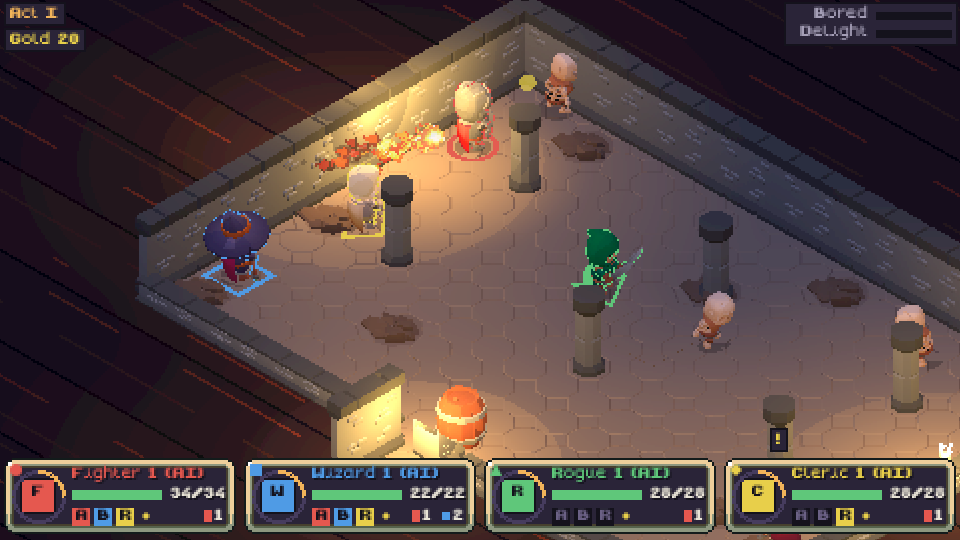
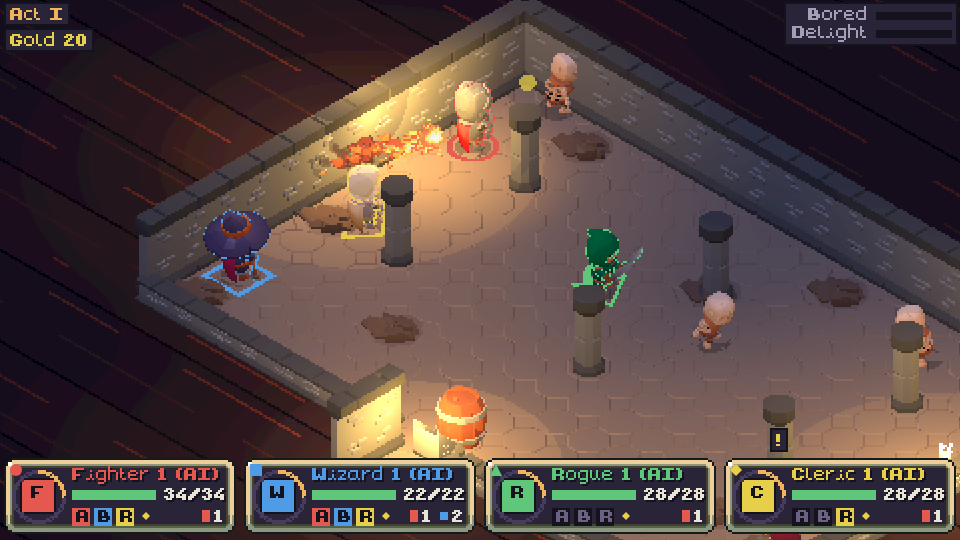
Sharp UI text: draw the UI at screen resolution on the font's pixel grid
The UI canvas was 480x270 and went through the low-res post chain: the 8 px
font antialiased, the hard alpha threshold broke glyphs apart, and the
integer upscale magnified the result, so text looked blurry and broken.

- Draw.setResolution(k): the UI canvas matches the integer upscale (480k x
  270k) with a canvas transform, so all UI code keeps 480x270 units.
- The upscale pass composites that texture one texel per screen pixel; the
  low-res pass only writes the "no UI" mask for the sub-texel camera shift.
- The pixel font is on a 9 px em: nominal 8/16 now render at 9/18 px so each
  font pixel covers whole screen pixels (no dropped rows/columns).
- Layout follow-ups for the ~12% wider glyphs (tavern, narration wrap,
  summary, loot, level-up cards, initiative order).
- Loading screen title drawn at screen resolution too.
- ui-gallery: W/H env vars for the viewport.

Claude-Session: https://claude.ai/code/session_01729CUv6pasVB8nyBY5QPHk

diff --git a/src/game/game.ts b/src/game/game.ts
@@ -131,8 +131,13 @@ export class Game {
     const c = this.loadCanvas;
     const g = c.getContext("2d");
     if (!g) return;
-    c.width = 480;
-    c.height = 270;
+    // Same integer scale as the game frame, so the title text is rasterized sharp, not stretched.
+    const k = Math.max(1, Math.floor(Math.min((innerWidth * devicePixelRatio) / 480, (innerHeight * devicePixelRatio) / 270)));
+    if (c.width !== 480 * k) {
+      c.width = 480 * k;
+      c.height = 270 * k;
+    }
+    g.setTransform(k, 0, 0, k, 0, 0);
     g.fillStyle = PAL.ink;
     g.fillRect(0, 0, 480, 270);
     g.fillStyle = PAL.dusk;
@@ -797,6 +802,9 @@ export class Game {
       }
     }
     this.hud.update(this.paused ? 0 : dt);
+    // Draw the UI at the same integer scale the frame is upscaled by, so text is rasterized at
+    // screen resolution instead of being blown up from 480x270.
+    if (this.ui.setResolution(Math.floor(Math.min(W / UI_W, H / UI_H)))) this.renderer.post.uiTexture.dispose();
     this.drawUi();
     this.renderer.render(W, H, dt, true);
     requestAnimationFrame((t) => this.frame(t));
@@ -935,7 +943,7 @@ export class Game {
   private drawTavern(): void {
     const d = this.ui;
     const large = this.settings.accessibility.largeText;
-    const mw = large ? 226 : 190, my = large ? 22 : 60;
+    const mw = large ? 226 : 204, my = large ? 22 : 60;
     const sx0 = mw + 18, sw = Math.floor((UI_W - 8 - sx0 - 9) / 4), sy = 172;
     // Controls strip along the bottom, on its own plate (drawn first: the large-text menu may cover it).
     d.rect(0, 237, UI_W, UI_H - 237, PAL.ink);
@@ -956,7 +964,7 @@ export class Game {
     d.label(`Renown ${this.meta.renown}   Runs ${this.meta.stats.runs}   Wins ${this.meta.stats.wins}`, UI_W - 4, 4, PAL.gold, 8, "right");
     drawMenu(d, 8, my, mw, "The Tavern", this.tavernItems(), this.tavernSel, large ? 12 : 8);
     // Party slots.
-    if (!this.input.hasPads()) d.label("Controllers appear after their first button press.", UI_W - 8, sy - 12, PAL.fog, 8, "right", UI_W - sx0);
+    if (!this.input.hasPads()) d.label("Gamepads show up after one button press.", UI_W - 8, sy - 12, PAL.fog, 8, "right", UI_W - sx0);
     for (let i = 0; i < 4; i++) {
       const p = this.players.find((x) => x.slot === i);
       const x = sx0 + i * (sw + 3);
@@ -967,8 +975,8 @@ export class Game {
       const inner = sw - 12;
       if (p) {
         d.text(d.fit(CLASSES[p.cls]!.name, inner), x + 6, sy + 19, PAL.bone, 8);
-        d.text(d.fit(p.device.startsWith("pad") ? "Controller" : p.device === "kbA" ? "WASD keys" : "Arrow keys", inner), x + 6, sy + 30, PAL.fog, 8);
-        if (i > 0) d.text(d.fit("◀ ▶ class", inner), x + 6, sy + 42, PAL.mist, 8);
+        d.text(d.fit(p.device.startsWith("pad") ? "Gamepad" : p.device === "kbA" ? "WASD" : "Arrows", inner), x + 6, sy + 30, PAL.fog, 8);
+        if (i > 0) d.text(d.width("◀ ▶ class") <= inner ? "◀ ▶ class" : "◀ ▶ swap", x + 6, sy + 42, PAL.mist, 8);
       } else {
         d.text("Open seat", x + 6, sy + 19, PAL.mist, 8);
         d.text(d.fit("Press to", inner), x + 6, sy + 31, PAL.fog, 8);
@@ -1090,8 +1098,8 @@ export class Game {
         const name = cards ? CARDS.cards.find((c) => c.id === id)!.name : SUBCLASSES[id]!.name;
         const desc = cards ? CARDS.cards.find((c) => c.id === id)!.desc : SUBCLASSES[id]!.desc;
         d.panel(x, y, 125, ch, i === sel ? "t1_nine_path_focus" : "nine_path_4");
-        d.text(d.fit(name, 113), x + 6, y + 6, i === sel ? PAL.gold : PAL.bone, 8);
-        d.para(desc, x + 6, y + 18, 113, i === sel ? PAL.bone : PAL.fog, 8, Math.max(1, Math.floor((ch - 24) / 10)), 10);
+        d.text(d.fit(name, 113), x + 6, y + 4, i === sel ? PAL.gold : PAL.bone, 8);
+        d.para(desc, x + 6, y + 15, 113, i === sel ? PAL.bone : PAL.fog, 8, Math.max(1, Math.floor((ch - 21) / 10)), 10);
       });
     });
   }
@@ -1155,7 +1163,7 @@ export class Game {
     const vy = 84 + desc.length * 10 + 8;
     d.panel(90, 46, 300, vy + 36 - 46);
     d.text(d.fit(it.name, 284), 240, 54, PAL.gold, 8, "center");
-    d.text(`${it.rarity.replace("_", " ")}${it.attune ? " — requires attunement" : ""}`, 240, 66, PAL.fog, 8, "center");
+    d.text(`${it.rarity.replace("_", " ")}${it.attune ? " — requires attunement" : ""} · ties: d20 roll-off`, 240, 66, PAL.fog, 8, "center");
     desc.forEach((ln, i) => d.text(ln, 240, 80 + i * 10, PAL.bone, 8, "center", false));
     const voters = s.heroes.filter((h) => !h.fallen);
     const vx0 = 240 - (voters.length * 60) / 2;
@@ -1164,7 +1172,7 @@ export class Game {
       d.shape(PLAYER_IDENTITY[h.slot]!.shape, vx0 + 14 + i * 60, vy + 4, 4, this.hud.idColor(h.slot));
       d.text(v ? v.toUpperCase() : "…", vx0 + 22 + i * 60, vy, v === "need" ? PAL.gold : v === "greed" ? PAL.sky : PAL.fog, 8);
     });
-    d.text(d.fit("Need: Attack   Greed: Action   Pass: Dodge   (d20 roll-off)", 284), 240, vy + 16, PAL.fog, 8, "center", false);
+    d.text(d.fit("Need: Attack   Greed: Action   Pass: Dodge", 284), 240, vy + 16, PAL.fog, 8, "center", false);
   }
 
   private drawInitiative(s: SimState): void {
@@ -1189,14 +1197,14 @@ export class Game {
     const start = n <= max ? 0 : Math.max(0, Math.min(n - max, init.turn - Math.floor(max / 2)));
     const shown = init.order.slice(start, start + max);
     const more = n > max;
-    d.panel(4, 72, 100, 18 + shown.length * 10 + (more ? 10 : 0));
+    d.panel(4, 72, 112, 20 + shown.length * 10 + (more ? 12 : 0));
     d.text("Order", 12, 78, PAL.amber, 8);
     shown.forEach((o, k) => {
       const i = start + k;
       const a = s.heroes.find((h) => h.id === o.id) ?? s.enemies.find((e) => e.id === o.id);
       if (!a) return;
       const isHero = (a as Hero).kind === "hero";
-      d.text(d.fit(`${o.total} ${a.name}`, 84), 12, 90 + k * 10, i === init.turn && init.phase === "resolve" ? PAL.gold : isHero ? this.hud.idColor((a as Hero).slot) : PAL.fog, 8, "left", false);
+      d.text(d.fit(`${o.total} ${a.name}`, 96), 12, 90 + k * 10, i === init.turn && init.phase === "resolve" ? PAL.gold : isHero ? this.hud.idColor((a as Hero).slot) : PAL.fog, 8, "left", false);
     });
     if (more) d.text(`${start + shown.length}/${n}`, 12, 90 + shown.length * 10, PAL.mist, 8, "left", false);
   }
@@ -1205,13 +1213,13 @@ export class Game {
     const d = this.ui;
     const sm = this.summary;
     if (!sm) return;
-    d.panel(60, 30, 360, 210);
-    d.text(d.fit(sm.victory ? "VICTORY! The Lich is undone." : "DEFEAT. The DM closes the screen.", 340, 16), 240, 40, sm.victory ? PAL.gold : PAL.blood, 16, "center");
+    d.panel(30, 30, 420, 210);
+    d.text(d.fit(sm.victory ? "VICTORY! The Lich is undone." : "DEFEAT. The DM closes the screen.", 400, 16), 240, 40, sm.victory ? PAL.gold : PAL.blood, 16, "center");
     let y = 66;
     for (const l of sm.lines) {
-      const lines = d.wrap(l, 336, 8);
+      const lines = d.wrap(l, 392, 8);
       if (y + lines.length * 11 > 214) break;
-      lines.forEach((ln, k) => d.text(ln, 72 + (k ? 8 : 0), y + k * 11, PAL.bone, 8, "left", false));
+      lines.forEach((ln, k) => d.text(ln, 42 + (k ? 8 : 0), y + k * 11, PAL.bone, 8, "left", false));
       y += lines.length * 11 + 2;
     }
     d.text("A / Enter: back to the tavern", 240, 222, PAL.fog, 8, "center");

diff --git a/src/render/post.ts b/src/render/post.ts
@@ -109,15 +109,20 @@ void main() {
 `;
 
 const upFrag = /* glsl */ `
-uniform sampler2D tColor; uniform vec2 outSize; uniform vec2 origin; uniform float scale; uniform vec2 shift; uniform vec2 rtSize; uniform float margin; uniform vec3 letterbox;
+uniform sampler2D tColor; uniform sampler2D tUI; uniform float uiOn; uniform vec2 outSize; uniform vec2 origin; uniform float scale; uniform vec2 shift; uniform vec2 rtSize; uniform float margin; uniform vec3 letterbox;
 varying vec2 vUv;
 vec4 at(vec2 lowPx) { return texture2D(tColor, (floor(lowPx) + margin + 0.5) / rtSize); }
 void main() {
   vec2 p = vUv * outSize - origin;              // output pixels inside the game rect, y up
   vec2 low = vec2(480.0, 270.0);
   if (p.x < 0.0 || p.y < 0.0 || p.x >= low.x * scale || p.y >= low.y * scale) { gl_FragColor = vec4(letterbox, 1.0); return; }
+  // The UI is drawn at full output resolution (one UI texel per screen pixel), so text stays sharp.
+  if (uiOn > 0.5) {
+    vec4 u = texture2D(tUI, (floor(p) + 0.5) / (low * scale));
+    if (u.a > 0.5) { gl_FragColor = vec4(u.rgb, 1.0); return; }
+  }
   vec4 plain = at(p / scale);
-  if (plain.a > 0.5) { gl_FragColor = vec4(plain.rgb, 1.0); return; } // UI: no shift
+  if (plain.a > 0.5) { gl_FragColor = vec4(plain.rgb, 1.0); return; } // low-res UI layer: no shift
   vec4 shifted = at((p + shift) / scale);
   gl_FragColor = vec4(shifted.a > 0.5 ? plain.rgb : shifted.rgb, 1.0);
 }
@@ -181,7 +186,7 @@ export class PostChain {
     this.mQuant = new THREE.ShaderMaterial({ vertexShader: fsVert, fragmentShader: quantFrag, uniforms: {
       tColor: { value: null }, palette: { value: pal }, enabled: { value: 1 }, dither: { value: 1 }, res: { value: new THREE.Vector2(RT_W, RT_H) } } });
     this.mUp = new THREE.ShaderMaterial({ vertexShader: fsVert, fragmentShader: upFrag, uniforms: {
-      tColor: { value: null }, outSize: { value: new THREE.Vector2(1, 1) }, origin: { value: new THREE.Vector2() },
+      tColor: { value: null }, tUI: { value: this.uiTexture }, uiOn: { value: 1 }, outSize: { value: new THREE.Vector2(1, 1) }, origin: { value: new THREE.Vector2() },
       scale: { value: 1 }, shift: { value: new THREE.Vector2() }, rtSize: { value: new THREE.Vector2(RT_W, RT_H) },
       margin: { value: MARGIN }, letterbox: { value: ink } } });
     this.quad = new THREE.Mesh(new THREE.PlaneGeometry(2, 2), this.mOutline);
@@ -240,7 +245,8 @@ export class PostChain {
     this.mTilt.uniforms.focusY!.value = this.tiltFocusY;
     this.pass(r, this.mTilt, this.rtA.texture, this.rtB);
     if (uiDirty) this.uiTexture.needsUpdate = true;
-    this.mUI.uniforms.enabled!.value = t.ui ? 1 : 0;
+    // The low-res pass now only writes the "no UI here" mask; the UI itself joins at full resolution.
+    this.mUI.uniforms.enabled!.value = 0;
     this.pass(r, this.mUI, this.rtB.texture, this.rtA);
     this.mQuant.uniforms.enabled!.value = t.quantize ? 1 : 0;
     this.mQuant.uniforms.dither!.value = t.dither ? 1 : 0;
@@ -252,6 +258,7 @@ export class PostChain {
     (u.outSize!.value as THREE.Vector2).set(outW, outH);
     (u.origin!.value as THREE.Vector2).set(ox, oy);
     u.scale!.value = scale;
+    u.uiOn!.value = t.ui ? 1 : 0;
     // Remainder is in texels (right, up); convert to whole output pixels.
     (u.shift!.value as THREE.Vector2).set(Math.round(remainder.x * scale), Math.round(remainder.y * scale));
     r.setViewport(0, 0, outW, outH);

diff --git a/src/ui/draw.ts b/src/ui/draw.ts
@@ -35,17 +35,44 @@ export const uiImage = (n: string): HTMLImageElement | undefined => images.get(n
 export class Draw {
   readonly g: CanvasRenderingContext2D;
   scale = 1;
+  /** Backing-store pixels per UI unit: the UI is drawn at the final screen resolution. */
+  res = 1;
   constructor(readonly canvas: HTMLCanvasElement) {
     canvas.width = UI_W;
     canvas.height = UI_H;
     this.g = canvas.getContext("2d", { willReadFrequently: false })!;
     this.g.imageSmoothingEnabled = false;
   }
+  /**
+   * Match the canvas to the integer upscale factor so text and panels are rasterized at full
+   * screen resolution (crisp glyphs) while every draw call keeps using 480x270 UI units.
+   */
+  setResolution(k: number): boolean {
+    k = Math.max(1, Math.min(8, Math.floor(k)));
+    let changed = false;
+    if (k !== this.res || this.canvas.width !== UI_W * k) {
+      changed = true;
+      this.res = k;
+      this.canvas.width = UI_W * k;
+      this.canvas.height = UI_H * k;
+      this.checker = null;
+    }
+    this.g.setTransform(k, 0, 0, k, 0, 0);
+    this.g.imageSmoothingEnabled = false;
+    return changed;
+  }
   clear(): void {
-    this.g.clearRect(0, 0, UI_W, UI_H);
+    this.g.save();
+    this.g.setTransform(1, 0, 0, 1, 0, 0);
+    this.g.clearRect(0, 0, this.canvas.width, this.canvas.height);
+    this.g.restore();
   }
   font(size: number): void {
-    this.g.font = `${Math.round(size * this.scale)}px ${fontFamily}`;
+    // The Ninja Adventure font is drawn on a 9 px em (one font pixel = 227.5 of 2048 units), so
+    // nominal sizes 8/16 render at 9/18 px: every font pixel then covers a whole number of screen
+    // pixels. At 8 px glyph pixels land on fractional positions and rows/columns drop out.
+    const px = fontReady ? (size * this.scale * 9) / 8 : Math.round(size * this.scale);
+    this.g.font = `${px}px ${fontFamily}`;
     // The Ninja Adventure font has a hairline space glyph.
     (this.g as CanvasRenderingContext2D & { wordSpacing: string }).wordSpacing = fontReady ? `${Math.max(2, Math.round(size / 3))}px` : "0px";
   }

diff --git a/scripts/dev/ui-gallery.ts b/scripts/dev/ui-gallery.ts
@@ -4,7 +4,7 @@ const out = process.argv[2] ?? "/tmp";
 const screens = (process.argv[3] ?? "tavern,intro,map,room,init,levelup,campfire,merchant,skill,loot,pause,summary,shop,hall,credits,large").split(",");
 const browser = await chromium.launch({ executablePath: process.env.CHROME_PATH ?? "/opt/pw-browsers/chromium-1243/chrome-linux64/chrome", args: ["--enable-unsafe-swiftshader", "--ignore-gpu-blocklist"] });
 for (const s of screens) {
-  const page = await browser.newPage({ viewport: { width: 960, height: 540 } });
+  const page = await browser.newPage({ viewport: { width: Number(process.env.W ?? 960), height: Number(process.env.H ?? 540) } });
   page.on("pageerror", (e) => console.log(s, "pageerror:", e.message));
   await page.goto(`http://localhost:5173/index.html?ui=${s}`);
   await page.waitForFunction(() => (window as unknown as { __rfrReady?: boolean }).__rfrReady === true, null, { timeout: 120000 });

diff --git a/src/ui/hud.ts b/src/ui/hud.ts
@@ -90,7 +90,7 @@ export class Hud {
     const n = this.narr;
     if (!n.text) return null;
     const size = this.largeText ? 16 : 8;
-    const lines = this.d.wrap(n.text, 284, size);
+    const lines = this.d.wrap(n.text, 266, size);
     return { lines, size, h: 12 + lines.length * (size + 3) };
   }
 

diff --git a/docs/NOTES.md b/docs/NOTES.md
@@ -100,3 +100,15 @@ Running log of decisions, findings and gotchas. Newest last.
   heroes never drank potions (solo win rate 28% → 53% once fixed); ranged AI kept trying to back away
   into walls instead of casting; the mid-act level-up now also happens halfway up the map, so short
   Act I paths don't reach the Wight at level 1.
+
+## UI text resolution
+
+The 3D scene renders at 480x270 and is integer-upscaled, but the UI canvas is drawn at the same
+integer scale as the upscale (480k x 270k, `Draw.setResolution`) and composited in the final
+upscale pass, one UI texel per screen pixel. Drawing it at 480x270 made the 8 px font antialias,
+then the hard alpha threshold broke glyphs apart, and the upscale magnified the damage.
+All UI code still works in 480x270 units through the canvas transform.
+
+The Ninja Adventure font sits on a 9 px em (2048 units/em, 227.5 units per font pixel), so
+`Draw.font()` renders nominal 8/16 at 9/18 px. At 8 px each font pixel covers 8/9 of a screen
+pixel and rows/columns drop out (the "i" lost its stem).
